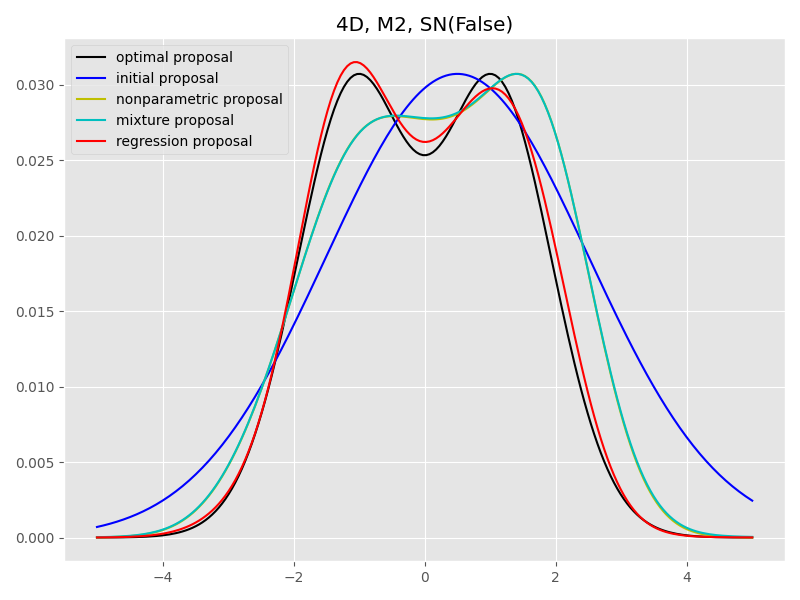
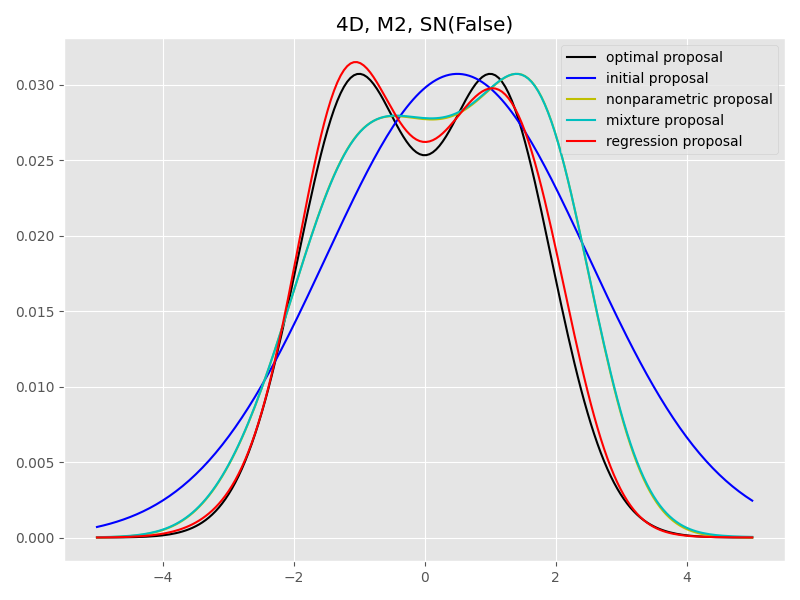
nb

Changed region(s): [[0.0938, 0.09, 0.3438, 0.27], [0.75, 0.09, 0.9688, 0.24]]

diff --git a/niscv/analysis/rare event (A).py b/niscv/analysis/rare event (A).py
@@ -5,63 +5,76 @@ import scipy.stats as st
 
 
 def read(b):
-    file = open('/Users/ianfla/Documents/GitHub/Two-Stage/niscv/data/rare/rare_(' + str(b) + ')', 'rb')
+    file = open('/Users/ianfla/Documents/GitHub/Two-Stage/niscv/data/rare/rare3_(' + str(b) + ')', 'rb')
     data = pickle.load(file)
     data1 = np.array([da[0][0] for da in data])
     data2 = np.array([da[0][1:] for da in data])
-    return data1, data2
+    data21 = data2[:, :, [0, 1, 6, 7, 8, 9, 10, 11, 12]]
+    data22 = data2[:, :, [2, 4]]
+    return data1, data21, data22
 
 
-def plot(data, ax, label, c, mode='a-var', truth=None, n=''):
-    ratios = np.array([5, 10, 15, 20, 30, 50, 70, 100, 150, 200, 500, 1000])
+def plot(data, ax, label, c, mode='a-var', truth=None, control=''):
+    ratios = np.array([2, 4, 6, 8, 10, 15, 20, 25, 30, 40, 50, 60, 80, 100, 200, 500, 1000])
+    n = 500 * ratios if control == 'IS' else 10000
     if mode == 'nmse':
-        n = 500 * ratios if n == 'IS' else 10000
         nMSE = n * np.mean((data - truth) ** 2, axis=0)
         ax.loglog(ratios, nMSE, c, label=label)
     elif mode == 'nvar':
-        n = 500 * ratios if n == 'IS' else 10000
         nvar = n * np.var(data, axis=0)
         ax.loglog(ratios, nvar, c + '.', label=label)
     elif mode == 'a-var':
         avar_mean = data.mean(axis=0)
-        avar_mean = avar_mean * 10000 / (10000 - 500 - 1) if n == 'RIS' else avar_mean
+        avar_mean = avar_mean * 10000 / (10000 - 500 - 1) if control == 'RIS' else avar_mean
         ax.loglog(ratios, avar_mean, c + '--', label=label)
     else:
         print('mode error! ')
 
 
-def draw(data, name, truth, ax):
-    plot(data[:, :, 0], ax, label='IS nMSE', c='b', mode='nmse', truth=truth, n='IS')
-    plot(data[:, :, 0], ax, label='IS nVAR', c='b', mode='nvar', truth=truth, n='IS')
-    plot(data[:, :, 1], ax, label='IS mean(a-var)', c='b', mode='a-var', truth=None)
+def draw(data, truth, ax):
+    plot(data[:, :, 0], ax, label='IS nMSE', c='b', mode='nmse', truth=truth, control='IS')
+    plot(data[:, :, 0], ax, label='IS nVAR', c='b', mode='nvar', truth=truth, control='IS')
+    plot(data[:, :, 1], ax, label='IS mean(a-var)', c='b', mode='a-var')
     plot(data[:, :, 2], ax, label='NIS nMSE', c='y', mode='nmse', truth=truth)
     plot(data[:, :, 2], ax, label='NIS nVAR', c='y', mode='nvar', truth=truth)
-    plot(data[:, :, 3], ax, label='NIS mean(a-var)', c='y', mode='a-var', truth=None)
+    plot(data[:, :, 3], ax, label='NIS mean(a-var)', c='y', mode='a-var')
     plot(data[:, :, 4], ax, label='MIS nMSE', c='c', mode='nmse', truth=truth)
     plot(data[:, :, 4], ax, label='MIS nVAR', c='c', mode='nvar', truth=truth)
-    plot(data[:, :, 5], ax, label='MIS mean(a-var)', c='c', mode='a-var', truth=None)
+    plot(data[:, :, 5], ax, label='MIS mean(a-var)', c='c', mode='a-var')
     plot(data[:, :, 6], ax, label='RIS nMSE', c='r', mode='nmse', truth=truth)
     plot(data[:, :, 6], ax, label='RIS nVAR', c='r', mode='nvar', truth=truth)
-    plot(data[:, :, 7], ax, label='RIS mean(a-var)', c='r', mode='a-var', truth=None, n='RIS')
+    plot(data[:, :, 7], ax, label='RIS mean(a-var)', c='r', mode='a-var', control='RIS')
     plot(data[:, :, 8], ax, label='MLE nMSE', c='k', mode='nmse', truth=truth)
     plot(data[:, :, 8], ax, label='MLE nVAR', c='k', mode='nvar', truth=truth)
-    ax.set_xlabel('log(kernel number)')
-    ax.legend(loc=3)
-    ax.set_title(name)
+    ax.set_xlabel('log(resampling ratios)')
 
 
 def main(b, ax):
-    data1, data2 = read(b)
+    data1, data21, data22 = read(b)
     truth = st.norm.cdf(-b)
-    settings = [[True, 1], [False, 2], [True, 2], [True, 3], [True, 4]]
-    for j, setting in enumerate(settings):
-        name = '5D, K' + str(setting[1]) + ', auto(' + str(setting[0]) + ')'
-        draw(data=data2[:, j, :, :], name=name, truth=truth, ax=ax[j])
+    draw(data=data21, truth=truth, ax=ax)
+    ax.legend(loc=1)
+    ax.set_title('b(' + str(b) + ')')
+
+    SS_mean = data22.mean(axis=0)
+    n0_ESS = 1000 * 500 / SS_mean[-1, 0]
+    SS_m0 = SS_mean[:, 1] / 500
+    ratios = np.array([2, 4, 6, 8, 10, 15, 20, 25, 30, 40, 50, 60, 80, 100, 200, 500, 1000])
+    DSS09 = ratios[SS_m0 > 0.9][0]
+
+    nMSE1 = 10000 * np.mean((data1[:, 2::2] - truth) ** 2, axis=0)
+    nMSE2 = 10000 * np.mean((data21[:, 0, 2:-1:2] - truth) ** 2, axis=0)
+
+    return 2 * n0_ESS, DSS09, nMSE1, nMSE2
 
 
 if __name__ == '__main__':
     plt.style.use('ggplot')
-    fig, axs = plt.subplots(5, 1, figsize=[10, 30])
-    main(b=2.0, ax=axs)
+    fig, axs = plt.subplots(2, 2, figsize=[20, 15])
+    axs = axs.flatten()
+    R = []
+    for i in range(4):
+        R.append(main(b=i, ax=axs[i]))
+
     fig.tight_layout()
     fig.show()

diff --git a/niscv/experiments/optimal proposal (rare) (E).py b/niscv/experiments/optimal proposal (rare) (E).py
@@ -1,0 +1,46 @@
+import numpy as np
+import scipy.stats as st
+from niscv.clustering.probability import Probability
+from matplotlib import pyplot as plt
+
+
+def experiment(dim, b, size_est, size_kn, ratio, ax):
+    mean = np.zeros(dim)
+    target = lambda x: st.multivariate_normal(mean=mean).pdf(x)
+    indicator = lambda x: 1 * (x[:, 0] >= b)
+    init_proposal = st.multivariate_normal(mean=mean, cov=4)
+    grid_x = np.linspace(-5, 5, 200)
+    grid_X = np.zeros([grid_x.size, dim])
+    grid_X[:, 0] = grid_x
+
+    pro = Probability(dim, target, indicator, init_proposal, size_est, show=False)
+    pro.initial_estimation(size_kn, ratio, resample=True)
+    opt = pro.opt_proposal(grid_X)
+    init = pro.init_proposal(grid_X)
+    ax.plot(grid_x, opt, c='k', label='optimal proposal')
+    ax.plot(grid_x, opt.max() * init / init.max() / 10, c='b', label='initial proposal')
+    pro.density_estimation(bw=1.0, mode=0, factor='scott', local=False, gamma=0.3, df=0, alpha0=0.1)
+    pro.nonparametric_estimation()
+    nonpar = pro.nonpar_proposal(grid_X)
+    mix = pro.mix_proposal(grid_X)
+    ax.plot(grid_x, opt.max() * nonpar / nonpar.max(), c='y', label='nonparametric proposal')
+    ax.plot(grid_x, opt.max() * mix / mix.max(), c='c', label='mixture proposal')
+    pro.regression_estimation()
+    reg = (pro.reg1.coef_ - pro.mu * pro.reg2.coef_).dot(pro.controls(grid_X))
+    ax.plot(grid_x, np.abs(reg), c='r', label='regression proposal')
+
+
+def main():
+    np.random.seed(19971107)
+    plt.style.use('ggplot')
+    for i in range(4):
+        fig, ax = plt.subplots(figsize=[8, 6])
+        experiment(dim=5, b=i, size_est=10000, size_kn=500, ratio=1000, ax=ax)
+        ax.legend(loc=1)
+        ax.set_title('b(' + str(i) + ')')
+        fig.tight_layout()
+        fig.show()
+
+
+if __name__ == '__main__':
+    main()

diff --git a/niscv/experiments/optimal proposal (normal) (E).py b/niscv/experiments/optimal proposal (normal) (E).py
@@ -45,7 +45,7 @@ def main():
     for i, setting in enumerate(settings):
         fig, ax = plt.subplots(figsize=[8, 6])
         experiment(dim=4, order=setting[0], size_est=5000, sn=setting[1], size_kn=300, ratio=1000, ax=ax)
-        ax.legend()
+        ax.legend(loc=1)
         name = '4D, M' + str(setting[0]) + ', SN(' + str(setting[1]) + ')'
         ax.set_title(name)
         fig.tight_layout()
